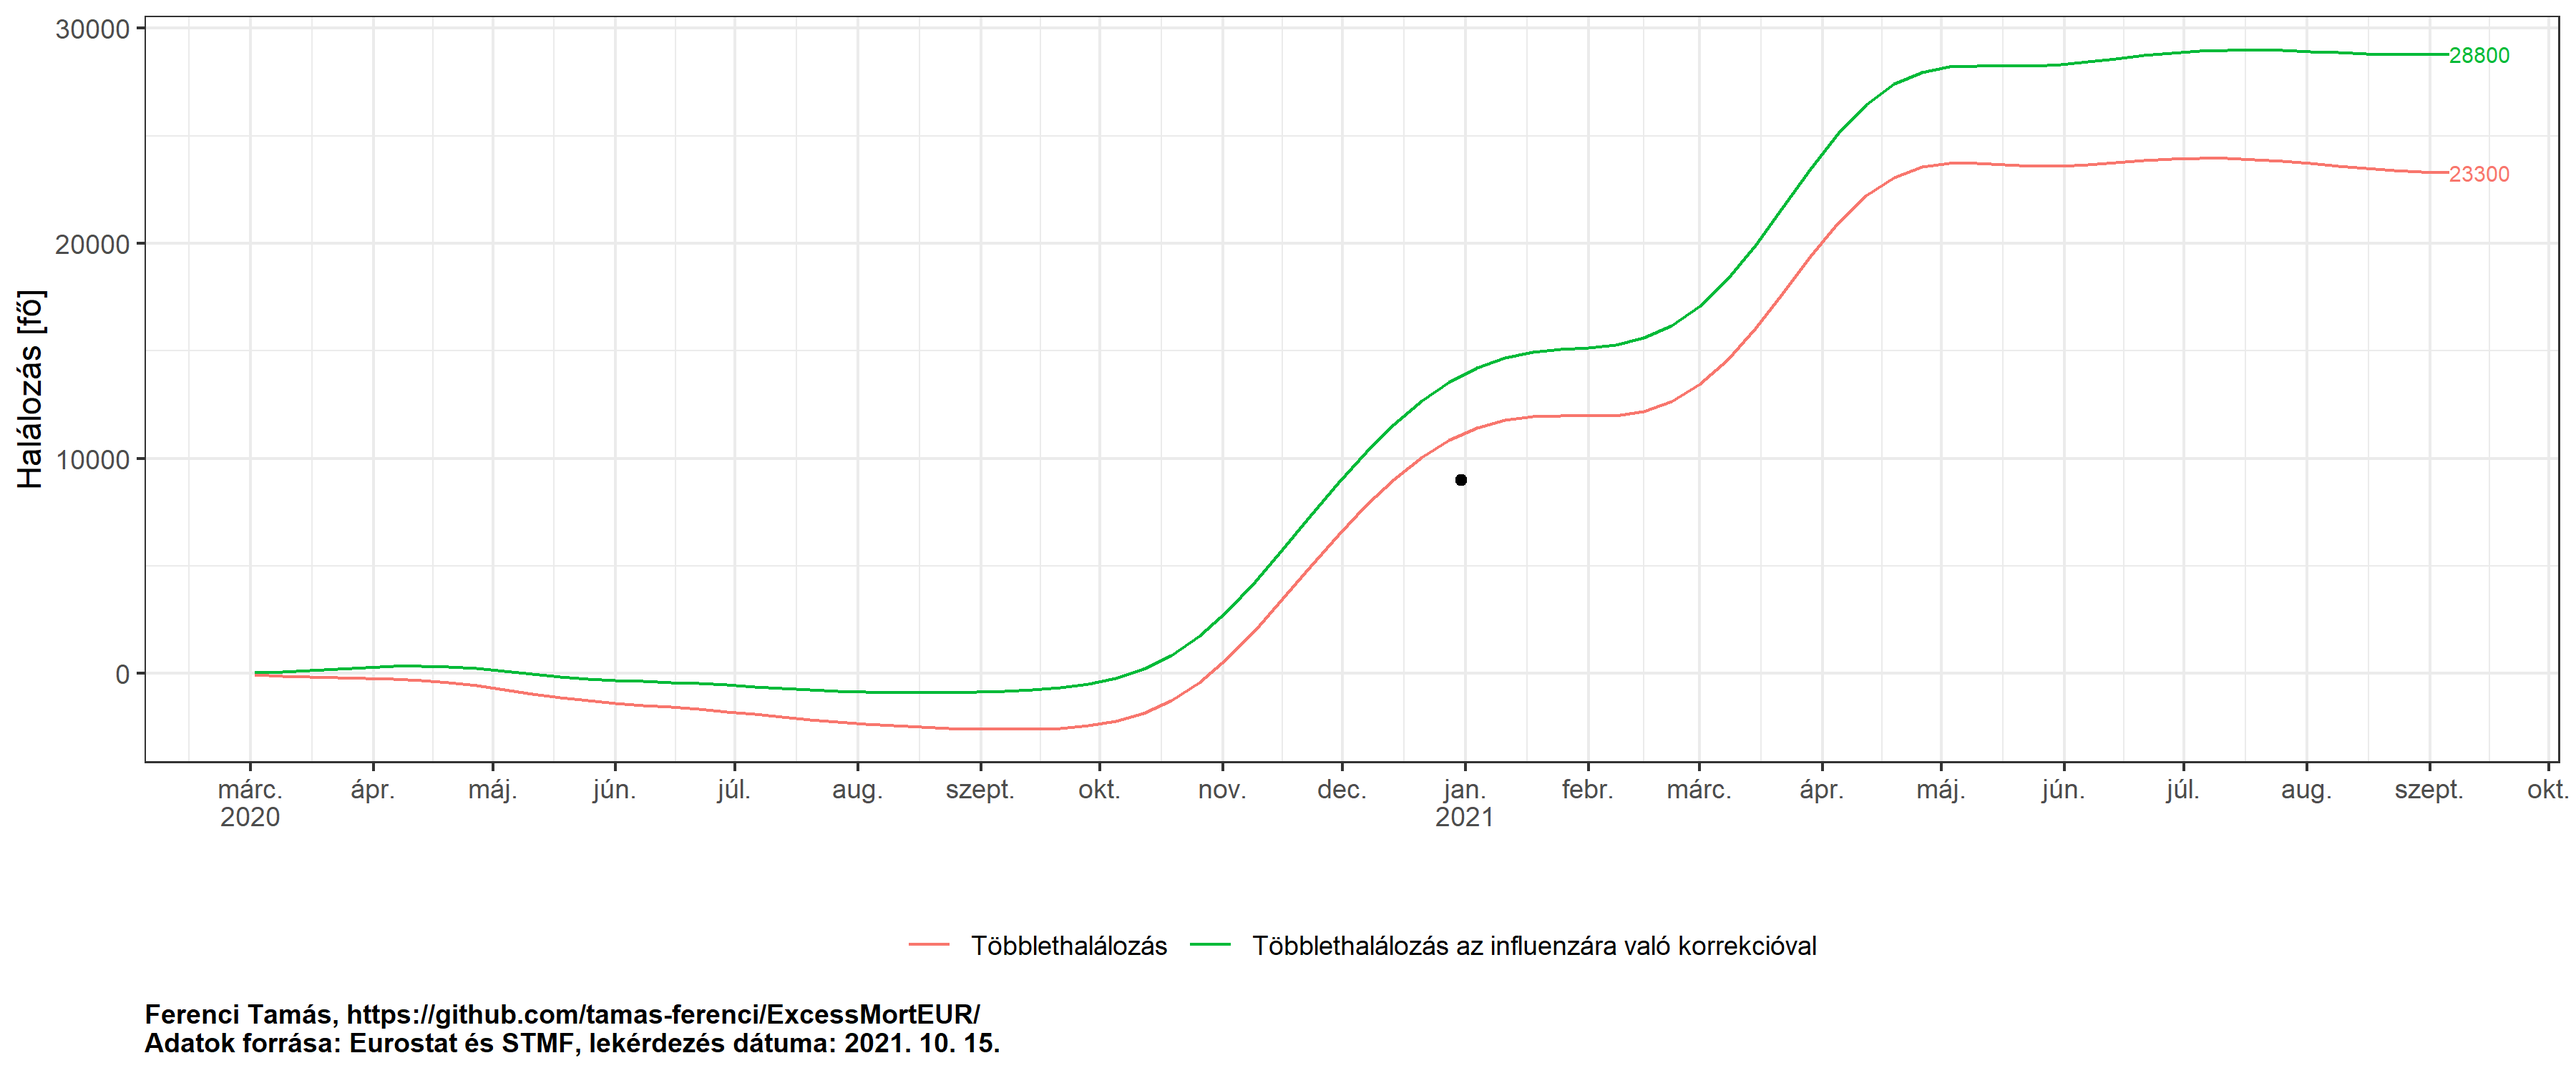
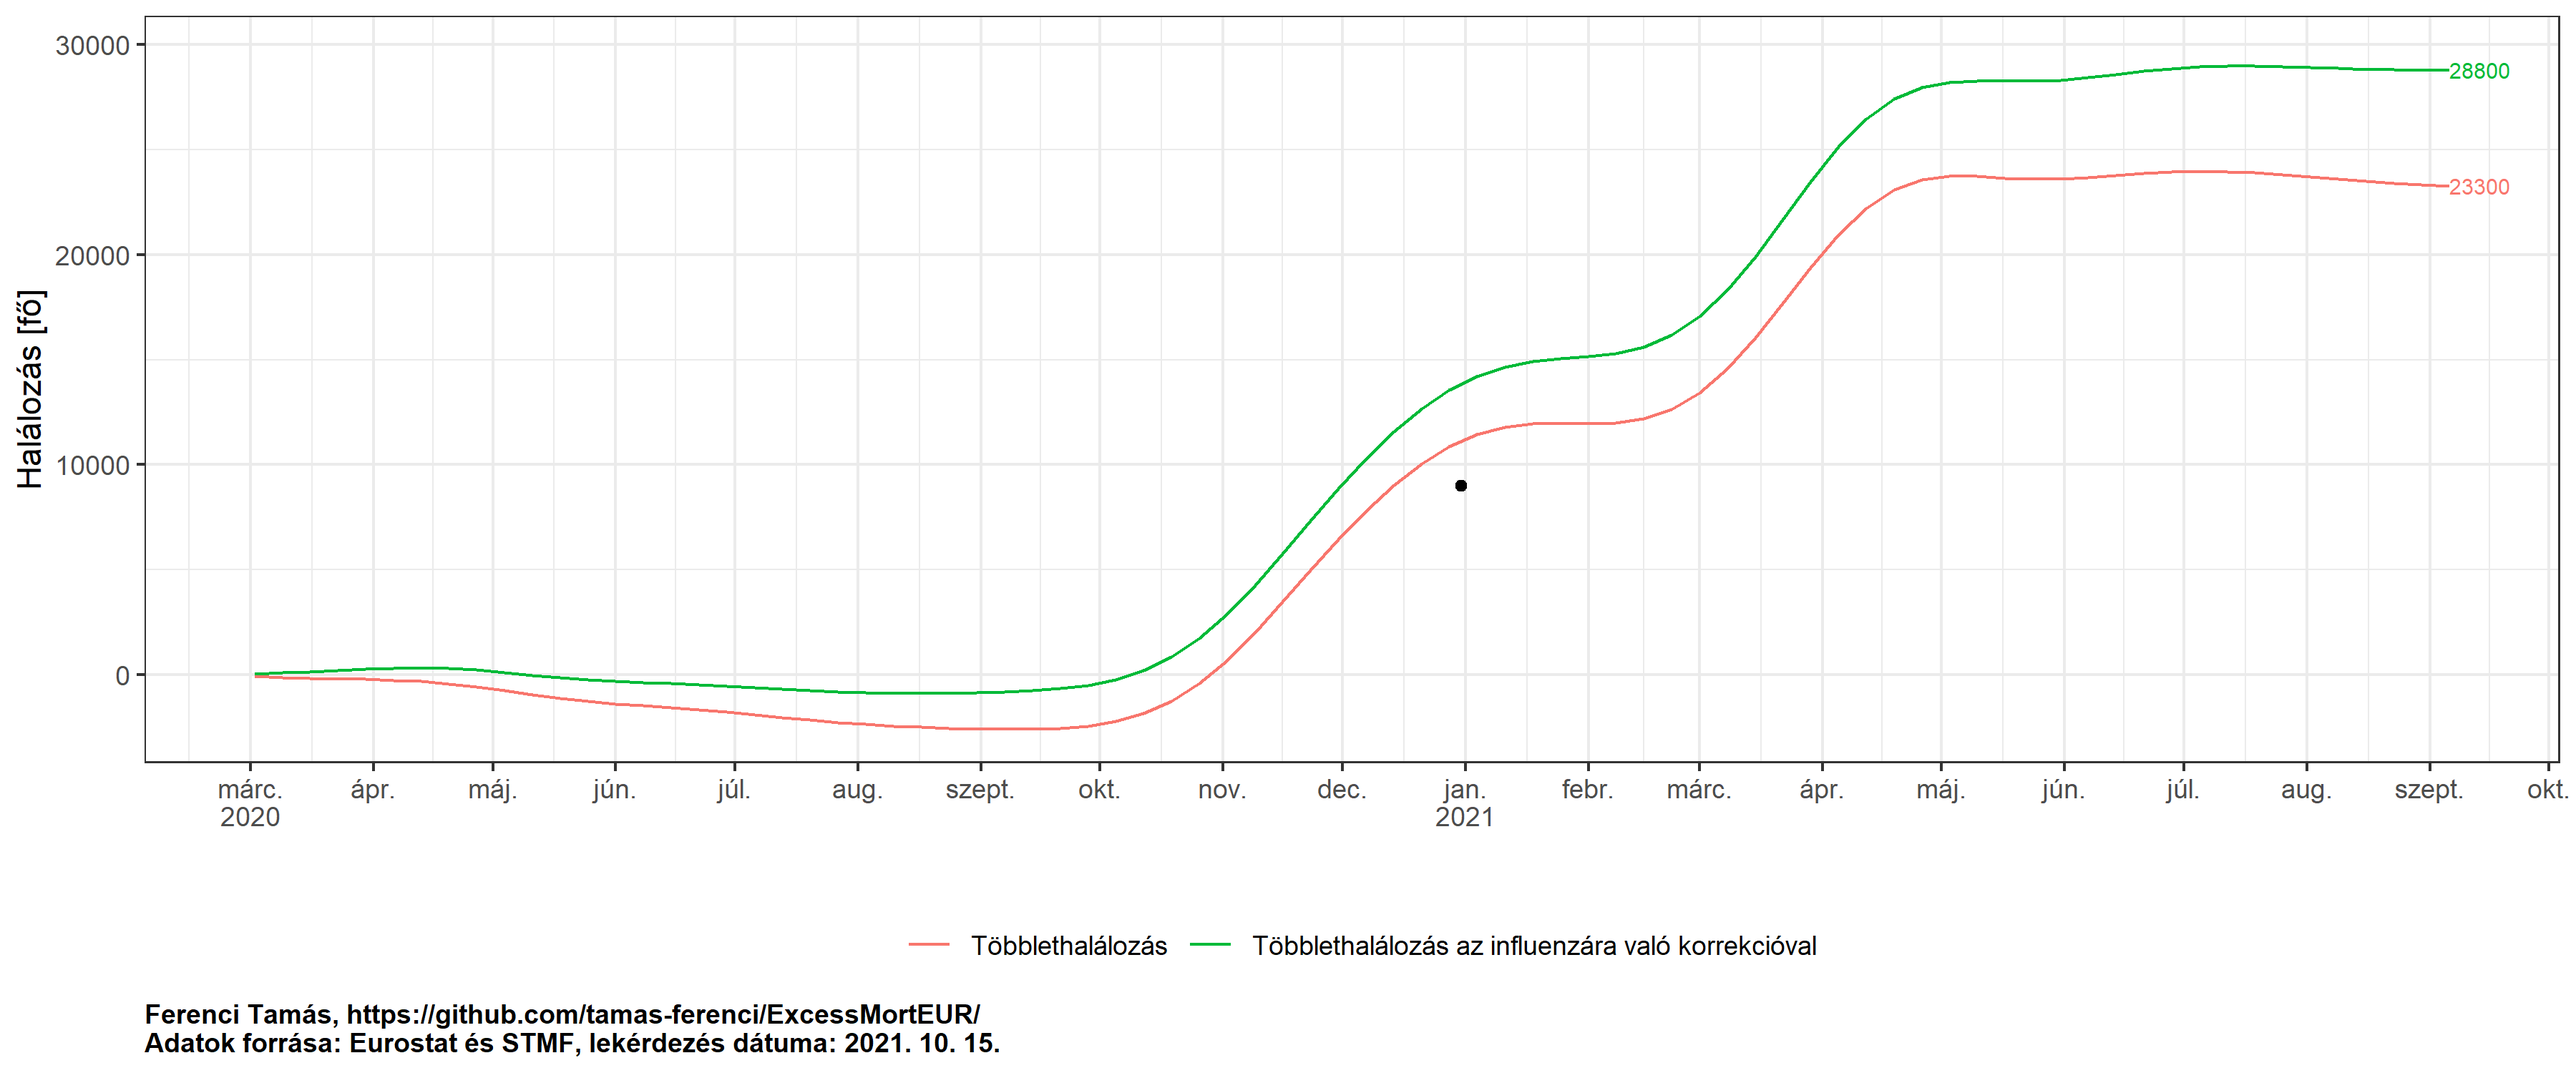
Javítás.

diff --git a/README.md b/README.md
@@ -1760,6 +1760,7 @@ ggplot(res_flu, aes(x = date, y = cumexcess, group = .id, color = .id, label = r
   theme(plot.caption = element_text(face = "bold", hjust = 0), legend.position = "bottom",
         legend.title = element_blank()) +
   labs(caption = paste0(captionlab, format(Sys.Date(), "%Y. %m. %d."))) +
+  coord_cartesian(ylim = ggplot_build(p)$layout$panel_scales_y[[1]]$range$range) +
   geom_point(data = data.frame(x = as.Date("2020-12-31"), y = 8981), inherit.aes = FALSE, aes(x = x, y = y))
 ```
 
@@ -1783,6 +1784,7 @@ ggplot(res_flu, aes(x = date, y = cum, group = .id, color = .id, label = round(c
   theme(plot.caption = element_text(face = "bold", hjust = 0), legend.position = "bottom",
         legend.title = element_blank()) +
   labs(caption = paste0(captionlab, format(Sys.Date(), "%Y. %m. %d."))) +
+  coord_cartesian(ylim = ggplot_build(p)$layout$panel_scales_y[[1]]$range$range) +
   geom_point(data = data.frame(x = as.Date("2020-12-31"), y = 8981), inherit.aes = FALSE, aes(x = x, y = y))
 ```
 
